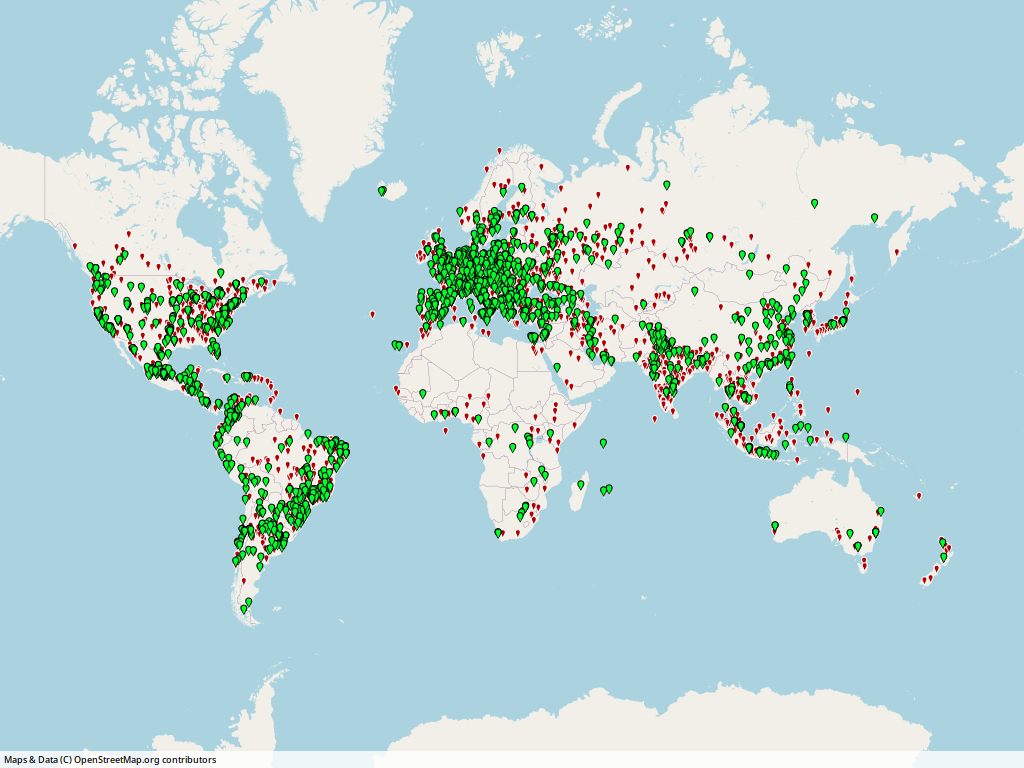
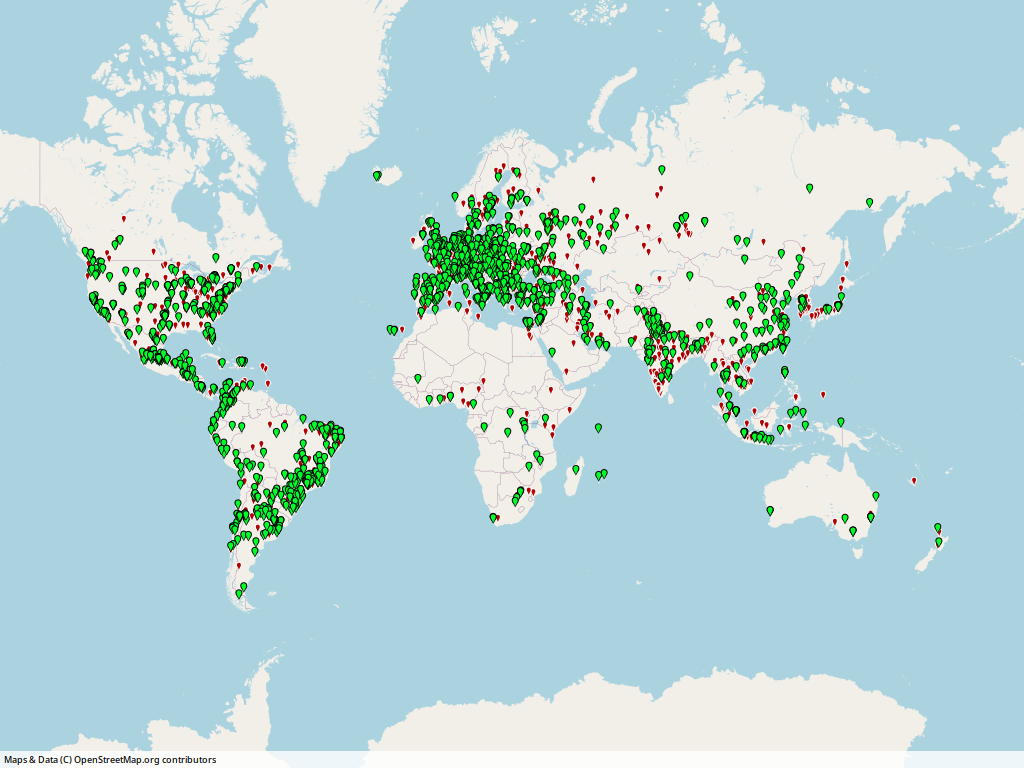
temp fix 404 map overflow

diff --git a/consultas/querys_sqlite.py b/consultas/querys_sqlite.py
@@ -13,13 +13,13 @@ c = conn.cursor()
 # GeoLoc
 def get_geoloc(codigo):
     if codigo == 200:
-        consulta = """
-            SELECT DISTINCT geoloc FROM registro WHERE ip in ( SELECT `ip` from visita WHERE cod_html=='200');
-                    """
+        consulta = """SELECT DISTINCT geoloc FROM registro WHERE ip in
+                      (SELECT `ip` from visita WHERE cod_html=='200');"""
     else:
-        consulta = """
-            SELECT DISTINCT geoloc FROM registro WHERE ip in ( SELECT `ip` from visita WHERE cod_html!='200');
-                    """
+        consulta = """SELECT DISTINCT geoloc FROM registro WHERE ip in
+                      (SELECT `ip` from visita WHERE cod_html!='200'
+                      AND cod_html!='444' AND cod_html!='0'
+                      AND cod_html!='404');"""
     c.execute(consulta)
     resp = c.fetchall()
     return resp
@@ -28,16 +28,15 @@ def get_geoloc(codigo):
 # Detalle Visitas por pais
 def vistas_pais_detalle(pais, codigo=''):
     if codigo == '':
-        consulta = f"""
-        SELECT DATE(fecha, 'unixepoch') AS fecha_local, ip, metodo, cod_html, consulta
-         FROM visita WHERE ip IN (SELECT `ip` FROM `registro` WHERE `pais` = '{pais}');
-        """
+        consulta = f"""SELECT DATE(fecha, 'unixepoch') AS
+                       fecha_local, ip, metodo, cod_html, consulta
+                       FROM visita WHERE ip IN (SELECT `ip` FROM `registro`
+                       WHERE `pais` = '{pais}');"""
     else:
-        consulta = f"""
-        SELECT DATE(fecha, 'unixepoch') AS fecha_local, ip, metodo, cod_html, consulta
-        FROM visita WHERE ip IN (SELECT `ip` FROM `registro` WHERE `pais` = '{pais}')
-        and cod_html = '{codigo}';
-        """
+        consulta = f"""SELECT DATE(fecha, 'unixepoch') AS
+                       fecha_local, ip, metodo, cod_html, consulta
+                       FROM visita WHERE ip IN (SELECT `ip` FROM `registro`
+                       WHERE `pais` = '{pais}') and cod_html = '{codigo}';"""
     c.execute(consulta)
     resp = c.fetchall()
     return resp
@@ -61,8 +60,8 @@ def pt_visita_pais_detalle(pais, codigo=''):
     tbl_v.add_column("Respuesta", justify="left", style="bright_blue")
     tbl_v.add_column("Consulta", justify="left", style="yellow")
     for item in respuesta:
-        tbl_v.add_row(str(item[0]), str(item[1]), str(item[2]), str(item[3]), str(item[4]))
-
+        tbl_v.add_row(str(item[0]), str(item[1]), str(item[2]),
+                      str(item[3]), str(item[4]))
     console.print(tbl_v)
 
 
@@ -75,12 +74,11 @@ def unix_to_local_date():
     return c.fetchall()
 
 
-# Select geoloc by cod html -- SELECT all from registro where ip=(SELECT ip from visita where cod_html=200);
+# Select geoloc by cod html
+# SELECT all from registro where ip=(SELECT ip from visita where cod_html=200);
 def select_cod(codigo):
-    consulta = f"""
-    SELECT geoloc FROM registro WHERE ip IN
-       (SELECT ip FROM visita WHERE cod_html = {codigo});
-    """
+    consulta = f"""SELECT geoloc FROM registro WHERE ip IN
+                   (SELECT ip FROM visita WHERE cod_html = {codigo});"""
     c.execute(consulta)
     resp = c.fetchall()
     return resp
@@ -88,10 +86,10 @@ def select_cod(codigo):
 
 # Select fecha mayor que (ej. 1661226920)
 def sel_pais_desde(pais, unix_e):
-    consulta = f"""
-    SELECT DATE(fecha, 'unixepoch') AS fecha_local, ip, metodo, cod_html, consulta
-    FROM visita WHERE ip IN (SELECT `ip` FROM `registro` WHERE `pais` = '{pais}') and fecha > {unix_e};
-    """
+    consulta = f"""SELECT DATE(fecha, 'unixepoch') AS
+                   fecha_local, ip, metodo, cod_html, consulta
+                   FROM visita WHERE ip IN (SELECT `ip` FROM
+                   `registro` WHERE `pais` = '{pais}') and fecha > {unix_e};"""
     c.execute(consulta)
     resp = c.fetchall()
     return resp
@@ -113,22 +111,16 @@ def pt_sel_pais_fecha(pais, fecha_ux, fecha_loc):
     tbl_v.add_column("Respuesta", justify="left", style="bright_blue")
     tbl_v.add_column("Consulta", justify="left", style="yellow")
     for item in respuesta:
-        tbl_v.add_row(str(item[0]), str(item[1]), str(item[2]), str(item[3]), str(item[4]))
-
+        tbl_v.add_row(str(item[0]), str(item[1]),
+                      str(item[2]), str(item[3]), str(item[4]))
     console.print(tbl_v)
 
 
 # Top 50 paises
 def top_paises(top):
-    consulta = f"""
-    SELECT registro.pais,
-        count(registro.pais) as Visitas
-        FROM visita, registro
-            WHERE visita.ip=registro.ip
-        GROUP BY pais
-        ORDER BY count(*) DESC
-        LIMIT {top};
-    """
+    consulta = f"""SELECT registro.pais, count(registro.pais) as Visitas
+                   FROM visita, registro WHERE visita.ip=registro.ip
+                   GROUP BY pais ORDER BY count(*) DESC LIMIT {top};"""
     c.execute(consulta)
     resp = c.fetchall()
     return resp
@@ -136,12 +128,11 @@ def top_paises(top):
 
 def pt_top_paises(top):
     respuesta = top_paises(top)
-    tbl_v = Table(
-            title=f"[bold][blue]Vistas Top {top}[/blue][/bold]",
-            box=box.ROUNDED,
-            show_lines=False,
-            row_styles=["dim", ""],
-            border_style="dark_magenta")
+    tbl_v = Table(title=f"[bold][blue]Vistas Top {top}[/blue][/bold]",
+                  box=box.ROUNDED,
+                  show_lines=False,
+                  row_styles=["dim", ""],
+                  border_style="dark_magenta")
     tbl_v.add_column("País", justify="center", style="bright_yellow")
     tbl_v.add_column("Visitas", justify="left", style="bright_cyan")
     for item in respuesta:
@@ -152,14 +143,10 @@ def pt_top_paises(top):
 
 # respuesta HTML para pais=?
 def cod_html_pais(pais):
-    consulta = f"""
-    SELECT cod_html,
-            count(cod_html) AS Ocurrencias
-            FROM visita
-            WHERE ip IN (SELECT `ip` FROM `registro` WHERE `pais` = '{pais}')
-            GROUP BY cod_html
-            ORDER BY count(*) DESC;
-    """
+    consulta = f"""SELECT cod_html, count(cod_html) AS Ocurrencias
+                   FROM visita WHERE ip IN (SELECT `ip` FROM `registro`
+                   WHERE `pais` = '{pais}') GROUP BY cod_html
+                   ORDER BY count(*) DESC;"""
     c.execute(consulta)
     resp = c.fetchall()
     return resp
@@ -168,11 +155,11 @@ def cod_html_pais(pais):
 def pt_html_cod_pais(pais):
     respuesta = cod_html_pais(pais)
     tbl_v = Table(
-            title=f"[bold][blue]Códigos html: [/blue][green]{pais}[/bold][/green]",
-            box=box.ROUNDED,
-            show_lines=False,
-            row_styles=["dim", ""],
-            border_style="dark_magenta")
+        title=f"[bold][blue]Códigos html: [/blue][green]{pais}[/bold][/green]",
+        box=box.ROUNDED,
+        show_lines=False,
+        row_styles=["dim", ""],
+        border_style="dark_magenta")
     tbl_v.add_column("Código", justify="center", style="bright_yellow")
     tbl_v.add_column("Conteo", justify="left", style="bright_cyan")
     for item in respuesta:
